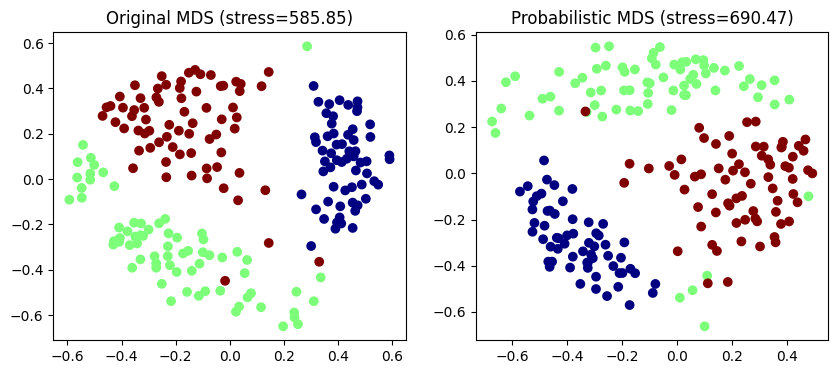
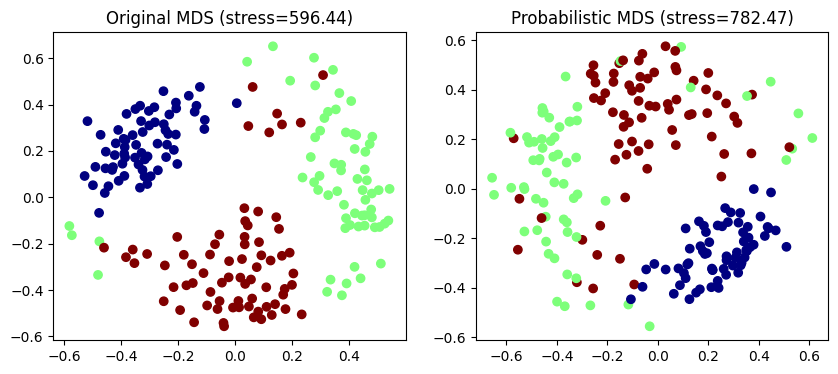
WIP debug prior mu + sigma MAP3

diff --git a/pmds/pmds_MAP3.py b/pmds/pmds_MAP3.py
@@ -1,0 +1,223 @@
+# Debug version for MAP with separate log llh and log prior
+import random
+from time import time
+
+import numpy as np
+import jax
+import jax.numpy as jnp
+from jax.scipy.special import i0e  # xlogy, gammaln, i0e, i1e
+from jax.scipy.stats import gamma, multivariate_normal
+
+import wandb
+
+from .score import stress
+
+
+DISABLE_JIT = False
+EPSILON = 1e-5
+SCALE = 1
+FIXED_RATE = 1.0 / 1e-3
+
+if DISABLE_JIT:
+    jax.jit = lambda x: x
+ones2 = jnp.ones((2,))
+zeros2 = jnp.zeros((2,))
+
+
+hist = wandb.Histogram
+lazylog = lambda i, d: wandb.log(d, commit=False, step=i)
+
+
+def log_likelihood_one_pair(mu_i, mu_j, tau_i, tau_j, D):
+    tau_ij = tau_i * tau_j / (tau_i + tau_j)
+    d_ij = jnp.linalg.norm(mu_i - mu_j)
+
+    log_llh = (
+        jnp.log(D)
+        + jnp.log(tau_ij)
+        - 0.5 * tau_ij * (D - d_ij) ** 2
+        + jnp.log(i0e(tau_ij * D * d_ij))
+    )
+    # print("[DEBUG] Log llh: ", tau_ij_inv.shape, d_ij.shape, log_llh.shape)
+    return log_llh
+
+
+# prepare the log pdf function of one sample to run in batch mode
+loss_and_grads_log_llh = jax.jit(
+    jax.vmap(
+        # take gradient w.r.t. the 1st, 2nd, 3rd and 4th params
+        jax.value_and_grad(jax.jit(log_likelihood_one_pair), argnums=[0, 1, 2, 3]),
+        # parallel for all input params
+        in_axes=(0, 0, 0, 0, 0),
+        # scalar output
+        out_axes=0,
+    )
+)
+
+
+def log_normal_gamma_prior(mu, tau, mu0=0.0, beta=1.0, gamma_shape=1.0, gamma_rate=1.0):
+    log_mu = multivariate_normal.logpdf(
+        mu, mean=0.0, cov=beta
+    ).sum()  # sum of 2 dimensions
+    log_tau = gamma.logpdf(tau, a=gamma_shape, scale=1.0 / gamma_rate)
+    # print("[DEBUG] Log prior: ", log_mu.shape, log_tau.shape)
+    return log_mu + log_tau
+
+
+loss_and_grads_log_prior = jax.jit(
+    jax.vmap(
+        jax.value_and_grad(jax.jit(log_normal_gamma_prior), argnums=[0, 1]),
+        in_axes=(0, 0, None, None, None, None),
+        out_axes=0,
+    )
+)
+
+
+def pmds_MAP3(
+    p_dists,
+    n_samples,
+    n_components=2,
+    batch_size=0,
+    random_state=42,
+    lr=1e-3,
+    epochs=20,
+    debug_D_squareform=None,
+    fixed_points=[],
+    init_mu=None,
+    hard_fix=False,
+    method="MAP3",
+    mu0=[0.0, 0.0],
+    beta=0.16,
+    gamma_shape=100.0,
+    gamma_rate=1.0,
+    alpha=200.0,  # contribution of log prior
+):
+    # TODO: Compare log_llh + log_prior separate vs. packed together as in `lv_pmds2`
+    assert n_components in [2, 4]
+    mu0 = jnp.array(mu0).reshape(1, 2)
+
+    # init `mu` and `tau`. Transform unconstrained tau `tau_unc` to  constrained`tau`.
+    # https://github.com/tensorflow/probability/issues/703
+    key_mu, key_tau = jax.random.split(jax.random.PRNGKey(random_state))
+    tau_unc = 100 + jax.random.normal(key_tau, (n_samples,))
+    # tau_unc = jnp.ones((n_samples,))
+    if init_mu is not None and init_mu.shape == (n_samples, n_components):
+        mu = jnp.array(init_mu)
+    else:
+        # for std_dev = 0.4 -> "most of " points in [-1, +1]
+        mu = jax.random.multivariate_normal(
+            key=key_mu, mean=mu0, cov=beta * jnp.eye(2), shape=[n_samples]
+        )
+        assert mu.shape == (n_samples, n_components)
+        # mu = jax.random.normal(key_mu, (n_samples, n_components))
+
+    # # fixed points
+    # if fixed_points:
+    #     fixed_indices = [p[0] for p in fixed_points]
+    #     fixed_pos = jnp.array([[p[1], p[2]] for p in fixed_points])
+    #     mu = jax.ops.index_update(mu, fixed_indices, fixed_pos)
+    #     tau_unc = jax.ops.index_update(tau_unc, fixed_indices, FIXED_RATE)
+
+    total_time = 0
+    loss = 0.0
+    all_loss = []
+    all_log_llh = []
+    all_log_prior = []
+    all_mu = []
+
+    for epoch in range(epochs):
+        tic = time()
+
+        # shuffle the observed pairs in each epoch
+        batch = random.sample(p_dists, k=len(p_dists))
+        # unpatch pairwise distances and indices of points in each pair
+        dists, pair_indices = list(zip(*batch))
+        i0, i1 = map(jnp.array, zip(*pair_indices))
+
+        # we work with constrainted `tau` (tau > 0)
+        tau = EPSILON + jax.nn.softplus(SCALE * tau_unc)
+
+        # get the params for related indices from global `mu` and `tau`
+        mu_i, mu_j = mu[i0], mu[i1]
+        tau_i, tau_j = tau[i0], tau[i1]
+
+        # calculate loss and gradients of the log likelihood term
+        loss_log_llh, [
+            grads_mu_i,
+            grads_mu_j,
+            grads_tau_i,
+            grads_tau_j,
+        ] = loss_and_grads_log_llh(mu_i, mu_j, tau_i, tau_j, jnp.array(dists))
+
+        # calculate loss and gradients of prior term
+        loss_log_prior, [grads_prior_mu, grads_prior_tau] = loss_and_grads_log_prior(
+            mu, tau, mu0, beta, gamma_shape, gamma_rate
+        )
+
+        # accumulate log likelihood and log prior
+        loss0 = float(jnp.sum(loss_log_llh))
+        loss1 = float(jnp.sum(loss_log_prior))
+        loss = loss0 + alpha * loss1
+
+        all_loss.append(loss)
+        all_log_llh.append(loss0)
+        all_log_prior.append(loss1)
+
+        # update gradient for the corresponding related indices
+        # note: maximize log llh (or MAP) --> use param += lr * grad (not -lr * grad)
+        mu = jax.ops.index_add(mu, i0, lr * grads_mu_i)
+        mu = jax.ops.index_add(mu, i1, lr * grads_mu_j)
+        mu = mu + alpha * lr * grads_prior_mu
+
+        # update gradient for constrained variable `tau`
+        # but we can not update directly on constrained `tau`
+        # since we must guarantee `tau` > 0.
+        # first, calculate gradient for unconstrained variable tau_unc
+        grads_tau_unc_i = grads_tau_i * jax.nn.sigmoid(SCALE * tau_unc[i0]) * SCALE
+        grads_tau_unc_j = grads_tau_j * jax.nn.sigmoid(SCALE * tau_unc[i1]) * SCALE
+        grads_prior_tau_unc = grads_prior_tau * jax.nn.sigmoid(SCALE * tau_unc) * SCALE
+        # then, update the unconstrained variable tau_unc
+        tau_unc = jax.ops.index_add(tau_unc, i0, lr * grads_tau_unc_i)
+        tau_unc = jax.ops.index_add(tau_unc, i1, lr * grads_tau_unc_j)
+        tau_unc = tau_unc + alpha * lr * grads_prior_tau_unc
+        # in the next iteration, the constrained `tau` will be transformed from `tau_unc`
+
+        # # correct gradient for fixed points
+        # if fixed_points and hard_fix:
+        #     mu = jax.ops.index_update(mu, fixed_indices, fixed_pos)
+        #     tau_unc = jax.ops.index_update(tau_unc, fixed_indices, FIXED_RATE)
+
+        mds_stress = (
+            stress(debug_D_squareform, mu) if debug_D_squareform is not None else 0.0
+        )
+        print(
+            f"[DEBUG] epoch {epoch}, loss: {-loss:,.2f}, stress: {mds_stress:,.2f},"
+            f" in {(time() - tic):.2f}s"
+        )
+        total_time += time() - tic
+
+        # all_mu.append({"epoch": epoch, "Z": mu})
+
+        lazylog(
+            epoch, {"loss": loss, "lllh": loss0, "lprior": loss1, "stress": mds_stress}
+        )
+        lazylog(
+            epoch,
+            {
+                "tau": np.array(tau),
+                "variance": np.array(1.0 / tau),
+                "grads_tau_lllh": hist(jnp.hstack([grads_tau_i, grads_tau_j])),
+                "grads_tau_prior": hist(grads_prior_tau),
+                "grads_mu_lllh_x": hist(jnp.vstack([grads_mu_i, grads_mu_j])[:, 0]),
+                "grads_mu_lllh_y": hist(jnp.vstack([grads_mu_i, grads_mu_j])[:, 1]),
+                "grads_mu_prior_x": hist(grads_prior_mu[:, 0]),
+                "grads_mu_prior_y": hist(grads_prior_mu[:, 1]),
+            },
+        )
+
+    print(f"DONE: final loss: {loss:,.0f}, {epochs} epochs in {total_time:.2f}s")
+    wandb.log({"total_loss": loss})
+
+    tau = EPSILON + jax.nn.softplus(SCALE * tau_unc)
+    std = np.sqrt(1.0 / tau)
+    return mu, std, [all_loss, all_log_llh, all_log_prior], all_mu

diff --git a/pmds/plot.py b/pmds/plot.py
@@ -1,6 +1,7 @@
 import mlflow
 import numpy as np
 import matplotlib.pyplot as plt
+from matplotlib import rcParams
 
 
 def line(points, out_name="line.png"):
@@ -53,6 +54,7 @@ def scatter(Z, Z_std=None, labels=None, title="", ax=None, out_name="Z.png"):
     # ax.set_xticks([])
     # ax.set_yticks([])
     cmap = "tab10" if (labels is not None and len(np.unique(labels)) > 5) else "jet"
+    marker_default_size = rcParams["lines.markersize"]
 
     p = {} if Z_std is None else {"marker": "+"}
     if labels is None:
@@ -67,8 +69,20 @@ def scatter(Z, Z_std=None, labels=None, title="", ax=None, out_name="Z.png"):
     ax.scatter(*Z.T, **p)
 
     if Z_std is not None and Z_std.shape == (Z.shape[0],):
-        p.update({"marker": "o"})
-        ax.scatter(*Z.T, s=Z_std * 500, alpha=0.08, **p)
+        # determine size for uncertainty around each point
+        std_size = marker_default_size * (1.0 + Z_std * 10)
+        print(
+            "Z_std",
+            np.min(Z_std),
+            np.max(Z_std),
+            "DEFAULT size: ",
+            marker_default_size,
+            "std_size: ",
+            np.max(std_size),
+            np.min(std_size),
+        )
+        p.update({"marker": "o", "s": std_size ** 2})
+        ax.scatter(*Z.T, alpha=0.08, **p)
 
     if fig is not None:
         fig.savefig(out_name, bbox_inches="tight", transparent=True)

diff --git a/run_pmds.py b/run_pmds.py
@@ -9,6 +9,7 @@ from scipy.spatial.distance import squareform
 from pmds.pmds_MLE import pmds_MLE
 from pmds.pmds_MAP import pmds_MAP
 from pmds.pmds_MAP2 import pmds_MAP2
+from pmds.pmds_MAP3 import pmds_MAP3
 from pmds.lv_pmds import lv_pmds
 from pmds.lv_pmds2 import lv_pmds2
 from pmds.mds_jax import mds
@@ -61,8 +62,9 @@ def run_pdms(D, N, args, labels=None):
         "MLE": pmds_MLE,  # simple maximum likelihood
         "MAP": pmds_MAP,  # simple gaussian prior for mu and uniform for sigma square
         "LV": lv_pmds,  # conjugate prior for (mu, precision) using Gaussian-Gamma dist.
-        "LV2": lv_pmds2,
-        "MAP2": pmds_MAP2,
+        "LV2": lv_pmds2,  # using only one loss function for auto aggregating gradients
+        "MAP2": pmds_MAP2,  # not use log sigma (uniform for sigma)
+        "MAP3": pmds_MAP3,  # for testing/debugging log llh + log prior
     }[args.method_name]
     Z1, Z1_std, all_losses, all_mu = pmds_method(
         dists_with_indices,
@@ -154,5 +156,5 @@ if __name__ == "__main__":
         normalize_dists=args.normalize_dists,
     )
 
-    wandb.init(project=f"PMDS_{method_name}_v0.3", config=args)
+    wandb.init(project=f"PMDS_{method_name}_v0.4", config=args)
     run_pdms(D, N, args=args, labels=labels)

diff --git a/pmds/config.py b/pmds/config.py
@@ -468,9 +468,9 @@ pre_config = {
             n_components=2,
             batch_size=0,
             epochs=200,
-            learning_rate=3e-5,  # (no missing: 5e-6, missing 50%: 3e-5) ,
-            missing_pairs=0.5,
-            random_state=2020,
+            learning_rate=3e-5,  # (no missing: 5e-6 or 1e-5, missing 50%: 3e-5) ,
+            missing_pairs=0.6,
+            random_state=2021,
             std=False,  # digits already in [0, 1]
             pca=None,
             epochs_mds=10,
@@ -487,6 +487,23 @@ pre_config = {
             random_state=2020,
             std=False,  # digits already in [0, 1]
             pca=None,
+        ),
+    },
+    "MAP3": {
+        "digits012": dict(
+            dataset_name="digits012",
+            n_samples=200,  # None for all 537 data points of classes [0 ,1, 2]
+            n_components=2,
+            batch_size=0,
+            epochs=100,
+            learning_rate=8e-5,
+            missing_pairs=0.0,
+            random_state=2021,
+            std=False,  # digits already in [0, 1]
+            pca=None,
+            epochs_mds=10,
+            # learning_rate_mds=20,
+            batch_size_mds=500,
         ),
     },
 }
